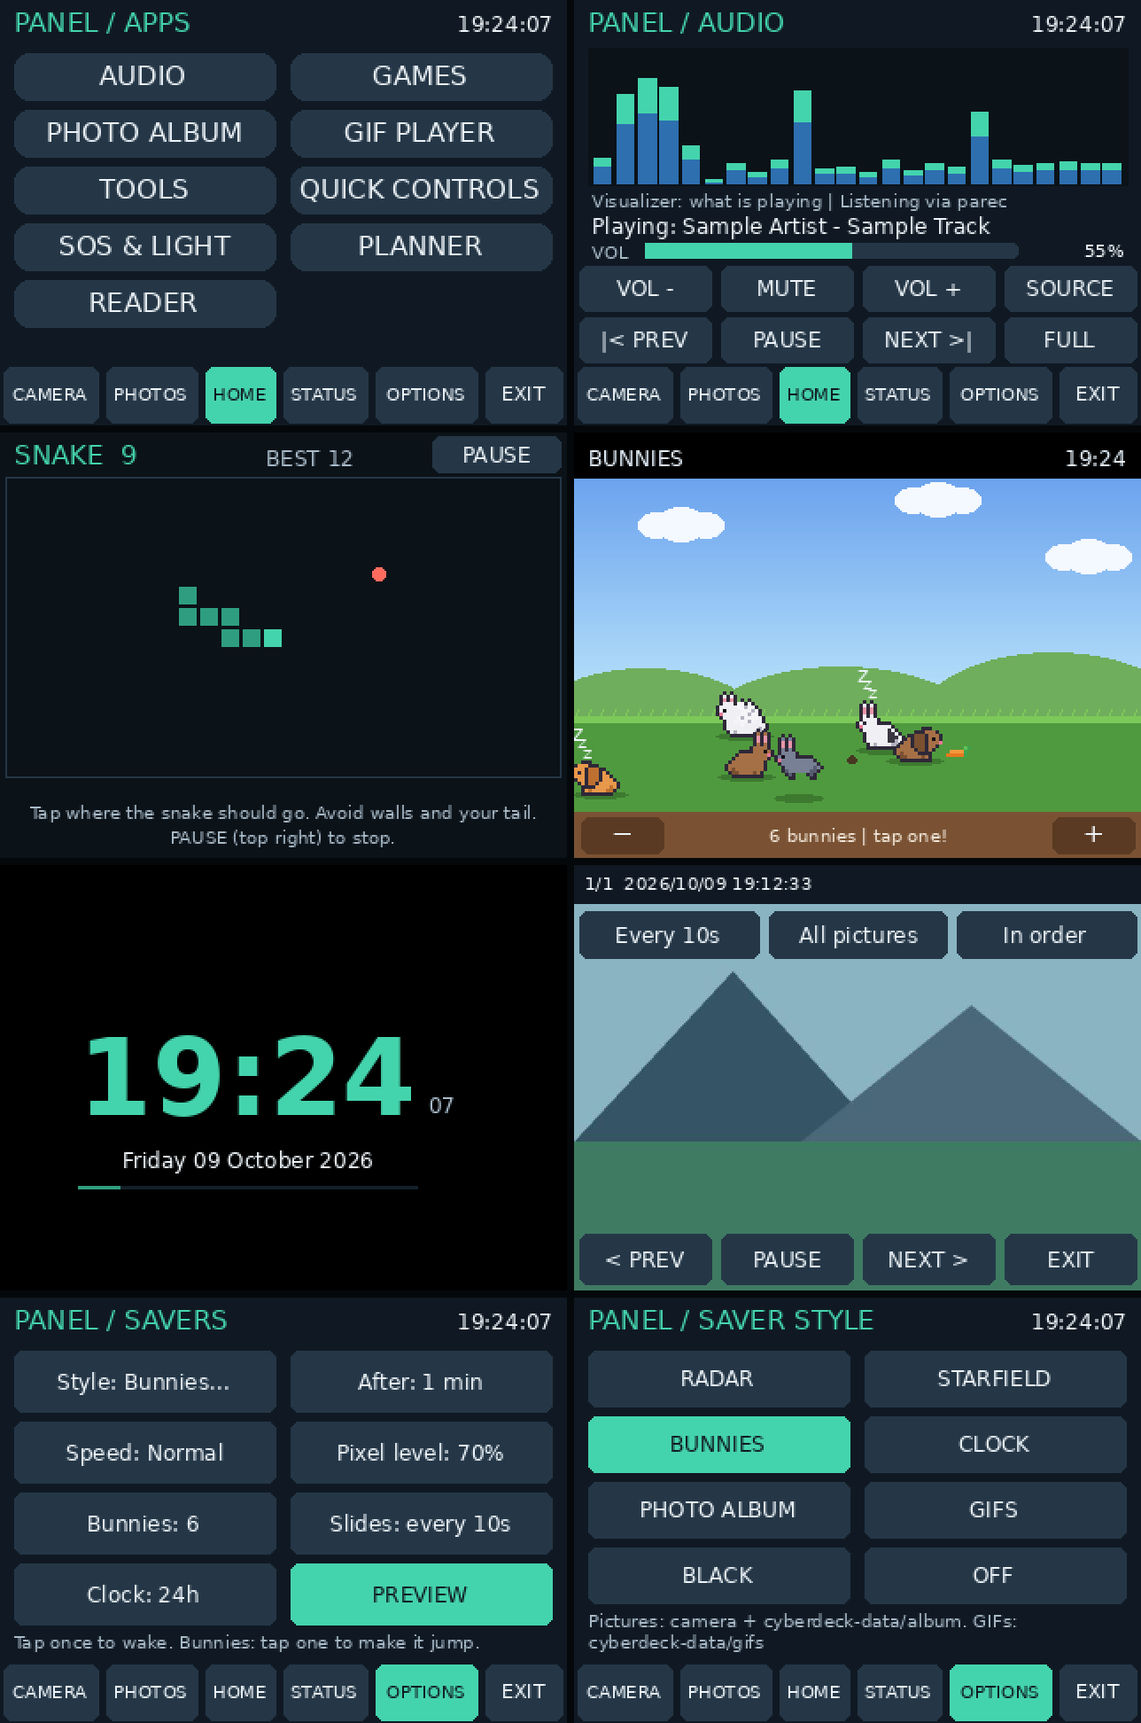
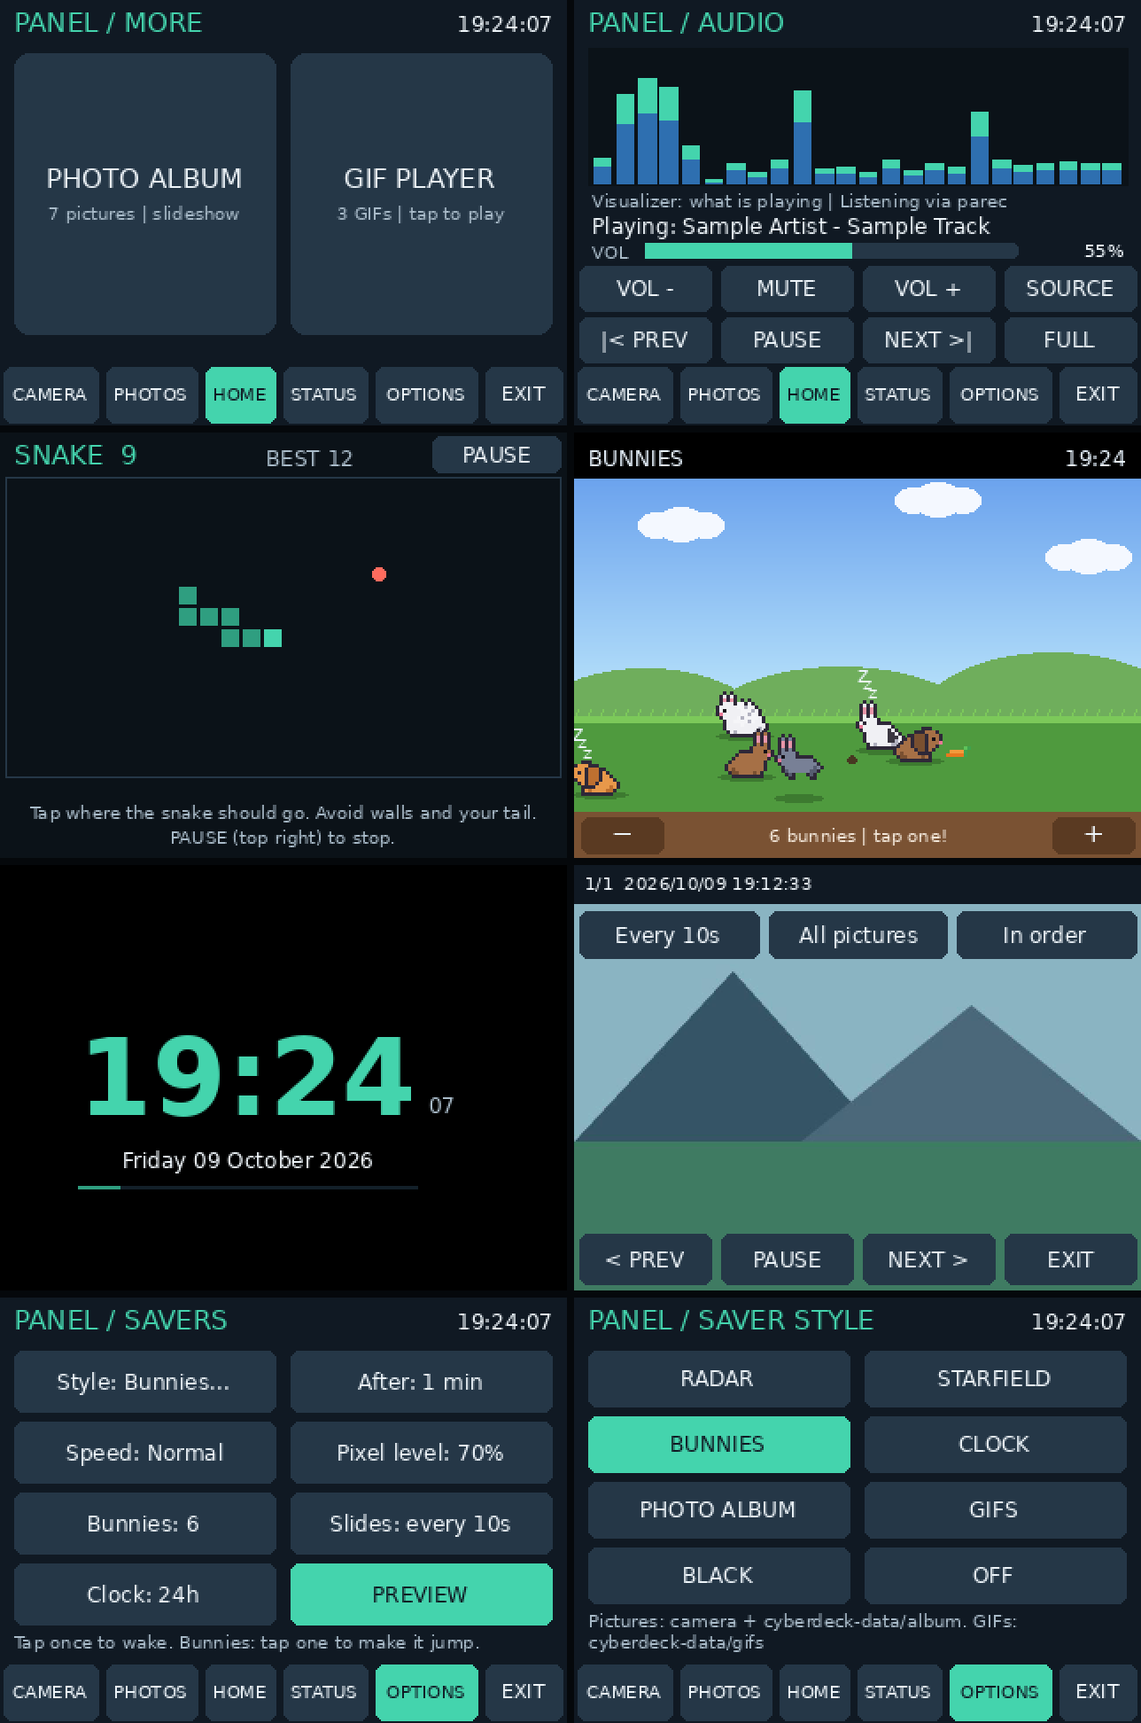
Home: most-used apps first, and each app in one place
Home now leads with Reader, Planner and Ask, then Tools, Quick, Audio, Games,
SOS and More. Camera and Photos already have tabs, so their tiles are gone; the
APPS page becomes MORE and only lists what isn't on Home (photo album and GIF
player). Labels may use the tile margins so PLANNER fits a portrait tile.

Claude-Session: https://claude.ai/code/session_016w3uQjEr2ZwcCKuYp4Kst7

Changed region(s): [[0.0, 0.0, 0.4969, 0.216]]

diff --git a/panel_app.py b/panel_app.py
@@ -3267,8 +3267,8 @@ class SignalApp:
 
 GAME_PAGES = ('snake', 'tetris', 'pong', 'bricks', 'flappy', 'invaders', 'mines', 'solitaire',
               'sudoku')
-APP_TILES = (('AUDIO', 'audio'), ('GAMES', 'games'), ('PHOTO ALBUM', 'album'), ('GIF PLAYER', 'gifs'), ('TOOLS', 'tools'), ('QUICK CONTROLS', 'quick'),
-             ('SOS & LIGHT', 'sos'), ('PLANNER', 'planner'), ('READER', 'reader'))
+# The MORE page: apps that aren't on Home, so no app is listed twice.
+APP_TILES = (('PHOTO ALBUM', 'album'), ('GIF PLAYER', 'gifs'))
 AUDIO_BUTTONS = (('down', 'mute', 'up', 'source'), ('prev', 'play', 'next', 'full'))
 
 
@@ -3284,12 +3284,11 @@ TAB_EDGES = tuple(sum(TAB_WIDTHS[:i]) for i in range(len(TABS)+1))
 TAB_PARENT = {'health': 'status', 'history': 'status', 'savers': 'options', 'saverstyle': 'options',
               'calconfirm': 'options', 'photodelete': 'photos', 'shutdown': 'exit',
               'audio': 'home', 'apps': 'home'}
-# Home page launcher: (label, key, accent colour).
-HOME_TILES = (('CAMERA', 'camera', ACCENT), ('PHOTOS', 'photos', BLUE),
-              ('GAMES', 'games', YELLOW), ('AUDIO', 'audio', PURPLE),
-              ('ALBUM', 'album', ORANGE), ('APPS', 'apps', RED),
-              ('TOOLS', 'tools', GREEN), ('QUICK', 'quick', CYAN),
-              ('ASK', 'ask', '#ff8fb8'))
+# Home page launcher: (label, key, accent colour), most used first. Camera and Photos
+# have their own tabs, so they aren't repeated here.
+HOME_TILES = (('READER', 'reader', ACCENT), ('PLANNER', 'planner', BLUE), ('ASK', 'ask', '#ff8fb8'),
+              ('TOOLS', 'tools', GREEN), ('QUICK', 'quick', CYAN), ('AUDIO', 'audio', PURPLE),
+              ('GAMES', 'games', YELLOW), ('SOS', 'sos', RED), ('MORE', 'apps', ORANGE))
 
 
 def home_rects():
@@ -3558,7 +3557,7 @@ def render_page(page, frame, paused, fps, rows, message, history=(), now=None,
                stroke_width=2, stroke_fill='black')
         return image
     title = {'calconfirm':'TOUCH SETUP', 'savers':'SAVERS', 'saverstyle':'SAVER STYLE',
-             'photodelete':'PHOTOS',
+             'photodelete':'PHOTOS', 'apps':'MORE',
              'shutdown':'POWER', 'poweroff':'POWER'}.get(page, page.upper())
     if alerts and page not in ('stopped', 'poweroff'):
         draw_banner(d, alerts, wall_time.strftime('%H:%M'))
@@ -3791,9 +3790,10 @@ def render_page(page, frame, paused, fps, rows, message, history=(), now=None,
             d.rounded_rectangle((rect[0], rect[1], rect[0]+4, rect[3]), radius=2, fill=colour)
             mid_x, mid_y = (rect[0]+rect[2])//2 + 2, (rect[1]+rect[3])//2
             room = rect[2]-rect[0]-12
+            label_room = room + 6  # Labels may use the margins, so PLANNER fits a portrait tile.
             note = notes.get(key, '')
-            label_font = HOME_LABEL if d.textlength(label, font=HOME_LABEL) <= room else HOME_LABEL_SMALL
-            d.text((mid_x, mid_y - (6 if note else 0)), fit_text(d, label, room, label_font),
+            label_font = HOME_LABEL if d.textlength(label, font=HOME_LABEL) <= label_room else HOME_LABEL_SMALL
+            d.text((mid_x, mid_y - (6 if note else 0)), fit_text(d, label, label_room, label_font),
                    font=label_font, fill=TEXT, anchor='mm')
             if note:
                 d.text((mid_x, mid_y+10), fit_text(d, note, room, TINY), font=TINY,
@@ -4217,13 +4217,12 @@ def main():
                 signal = re.search(r'(-?\d+) dBm', wifi)
                 extra = {'home': {
                     'wifi': f'Wi-Fi {signal[1]} dBm' if signal else 'No Wi-Fi',
-                    'camera': ('Live view' if camera is not None and camera.ready
-                               else 'Connecting...' if camera is not None else 'Off'),
-                    'photos': f'{len(library.items)} saved',
+                    'reader': apps['reader'].note(),
+                    'planner': apps['planner'].note(datetime.now().astimezone()),
                     'games': f'{len(GAME_PAGES)} games',
                     'audio': (f"Vol {audio.state['volume']}%"
                               if audio.state.get('volume') is not None else 'Music, volume'),
-                    'album': 'Slideshow', 'apps': f'{len(APP_TILES)} apps', 'tools': 'Timers & more',
+                    'sos': 'Beacon, torch', 'apps': 'Album, GIFs', 'tools': 'Timers & more',
                     'quick': 'Shortcuts', 'ask': apps['ask'].note()}}
             elif page == 'apps':
                 extra = {'notes': app_notes()}

diff --git a/tests/test_home.py b/tests/test_home.py
@@ -37,10 +37,15 @@ class HomePageTest(unittest.TestCase):
                              ['home:' + key for _, key, _ in app.HOME_TILES])
             self.assertIn('tab:home', [a for _, a in app.HOTSPOTS])
 
-    def test_every_app_is_reachable_from_home(self):
-        # The APPS page is the only way to some apps (SOS, planner, reader), so Home must lead to it.
-        self.assertIn('apps', [key for _, key, _ in app.HOME_TILES])
-        self.assertIn(('READER', 'reader'), app.APP_TILES)
+    def test_every_app_is_reachable_once(self):
+        home = [key for _, key, _ in app.HOME_TILES]
+        more = [key for _, key in app.APP_TILES]
+        tabs = [tab.lower() for tab in app.TABS]
+        self.assertIn('apps', home)  # MORE is the only way to the apps listed there.
+        everything = home + more + tabs
+        for key in ('reader', 'planner', 'ask', 'tools', 'quick', 'audio', 'games', 'sos',
+                    'album', 'gifs', 'camera', 'photos'):
+            self.assertEqual(everything.count(key), 1, key)  # Reachable, and not listed twice.
 
     def test_home_tab_sits_where_apps_was(self):
         app.render('status', None, False, 20, self.rows, '')
@@ -87,9 +92,11 @@ class BootSwitchTest(unittest.TestCase):
 class StartPageTest(unittest.TestCase):
     def test_app_opens_on_home_and_tiles_work(self):
         import test_panel_app as t
-        # Default start page is Home: GAMES tile -> BACK to Home -> CAMERA tile -> Exit.
+        # Default start page is Home: GAMES tile -> BACK to Home -> CAMERA tab -> Exit.
         games_back = centre(app.GamesMenu(lambda: {}).rects()[1])
-        script = [(.5, 263, 98), (1.1, *games_back), (1.7, 56, 98),
+        keys = [key for _, key, _ in app.HOME_TILES]
+        games_tile = centre(app.home_rects()[keys.index('games')])
+        script = [(.5, *games_tile), (1.1, *games_back), (1.7, 29, 222),
                   (2.3, 300, 222), (2.9, 160, 150)]
         t.FakeTouch.script, t.FakeScreen.frames = script, []
         with tempfile.TemporaryDirectory() as folder:

diff --git a/tests/test_panel_app.py b/tests/test_panel_app.py
@@ -653,7 +653,7 @@ class MainLoopTest(unittest.TestCase):
         self.assertEqual(len(list((data/'photos').glob('*.jpg'))), 1)
 
     def test_tools_timelapse_runs_after_leaving_its_page(self):
-        data, _ = self.run_app([(.5, 136, 222), (1.1, 56, 185), # HOME > TOOLS
+        data, _ = self.run_app([(.5, 136, 222), (1.1, 56, 142), # HOME > TOOLS
                                (1.7, 240, 68), (2.3, 80, 142), # TIMELAPSE > START
                                (2.9, 240, 222), # return to CAMERA
                                (3.6, 290, 222), (4.3, 160, 150)])
@@ -691,10 +691,10 @@ class MainLoopTest(unittest.TestCase):
         poweroff.assert_not_called()
 
     def test_apps_snake_and_bunny_saver(self):
-        # Coordinates: HOME tab x=136; GAMES tile (263, 98); menu SNAKE (55, 53);
+        # Coordinates: HOME tab x=136; GAMES tile (56, 185); menu SNAKE (55, 53);
         # dialog START (100, 170) / QUIT (220, 170); menu BACK (55, 212).
-        script = [(.5, 136, 222),    # APPS tab
-                  (1.1, 263, 98),    # GAMES
+        script = [(.5, 136, 222),    # HOME tab
+                  (1.1, 56, 185),    # GAMES
                   (1.7, 55, 53),     # SNAKE in the Games menu (top left)
                   (2.3, 100, 170),   # START
                   (2.9, 280, 12),    # PAUSE (header)

diff --git a/tools/render_previews.py b/tools/render_previews.py
@@ -292,9 +292,10 @@ def games_screens(clock):
 
 def home_screens(clock):
     rows = {'temp': '48.2 C', 'disk_free': '18.4 GiB'}
-    notes = {'wifi': 'Wi-Fi -58 dBm', 'camera': 'Live view', 'photos': '23 saved',
-             'games': '9 games', 'audio': 'Vol 55%', 'album': 'Slideshow', 'apps': '9 apps',
-             'tools': 'Timers & more', 'quick': 'Shortcuts', 'ask': 'Offline answers'}
+    notes = {'wifi': 'Wi-Fi -58 dBm', 'reader': 'Reading: AC and DC',
+             'planner': 'Next: 19:30 Radio net', 'games': '9 games', 'audio': 'Vol 55%',
+             'sos': 'Beacon, torch', 'apps': 'Album, GIFs', 'tools': 'Timers & more',
+             'quick': 'Shortcuts', 'ask': 'Offline answers'}
     landscape = app.render('home', None, False, 20, rows, '', wall_time=clock, extra={'home': notes})
     app.set_rotation(90)
     try:

diff --git a/tests/test_beacon.py b/tests/test_beacon.py
@@ -135,7 +135,7 @@ class SignalAppTest(unittest.TestCase):
                                     (rotation, key, line, box, rect))
 
     def test_listed_in_apps_and_never_covered_by_a_saver(self):
-        self.assertIn(('SOS & LIGHT', 'sos'), app.APP_TILES)
+        self.assertIn(('SOS', 'sos'), [(label, key) for label, key, _ in app.HOME_TILES])
         options = {**app.DEFAULT_OPTIONS, 'saver_style': 'radar', 'saver_delay': 1}
         self.assertFalse(app.saver_due(options, 10**6, 'sos'))
 

diff --git a/tests/test_reader.py b/tests/test_reader.py
@@ -201,7 +201,7 @@ class ReaderTest(unittest.TestCase):
         view.render(0, CLOCK, ())
 
     def test_listed_in_apps_and_not_covered_by_a_saver(self):
-        self.assertIn(('READER', 'reader'), app.APP_TILES)
+        self.assertIn(('READER', 'reader'), [(label, key) for label, key, _ in app.HOME_TILES])
         options = {**app.DEFAULT_OPTIONS, 'saver_style': 'radar', 'saver_delay': 1}
         self.assertFalse(app.saver_due(options, 10**6, 'reader'))
 

diff --git a/docs/APPS-AND-SAVERS.md b/docs/APPS-AND-SAVERS.md
@@ -31,9 +31,9 @@ scp *.gif eli@cyberdeck.local:/home/eli/cyberdeck-data/gifs/
 scp *.jpg eli@cyberdeck.local:/home/eli/cyberdeck-data/album/
 ```
 
-## New tab layout
+## Where the apps are
 
-The tabs are now **CAMERA, PHOTOS, APPS, STATUS, OPTIONS, EXIT**. APPS opens four tiles: **Audio, Snake, Photo album, GIF player**.
+The tabs are **CAMERA, PHOTOS, HOME, STATUS, OPTIONS, EXIT**. Most apps are tiles on Home ([HOME-AND-STARTUP.md](HOME-AND-STARTUP.md)); Home -> **MORE** holds the photo album and the GIF player.
 
 ## 1. Bunny screensaver (interactive)
 
@@ -95,7 +95,7 @@ A large clock with seconds, the day and full date, and a thin seconds-progress l
 
 ## 3. Audio control and visualizer
 
-APPS -> **AUDIO**:
+Home -> **AUDIO**:
 
 - **VOL - / VOL +** change volume in 5% steps, up to 100%. **MUTE** toggles mute. The bar and percentage show the current level.
 - **|< PREV / PLAY / NEXT >|** control whichever media player is running (VLC, Chromium/YouTube, Spotify and others that support MPRIS). The track name is shown when the player provides it. These buttons need `playerctl`.
@@ -114,7 +114,7 @@ How it works and its limits:
 
 ## 4. Snake
 
-APPS -> **SNAKE**, then **START**.
+Home -> **GAMES** -> **SNAKE**, then **START**.
 
 - **Steering:** tap the screen on the side you want the snake to go. It turns toward your tap, so tap above the head to go up, to the right to go right, and so on. Up to two turns can be queued. It can't reverse straight into itself.
 - **Food:** eating grows the snake and speeds it up a little, from 5 to 12 moves per second.
@@ -126,7 +126,7 @@ Taps register when your finger lifts, as everywhere else on this resistive scree
 
 ## 5. Photo album
 
-APPS -> **PHOTO ALBUM** plays a full-screen slideshow with a short crossfade.
+Home -> **MORE** -> **PHOTO ALBUM** plays a full-screen slideshow with a short crossfade.
 
 - Tap once to show the controls. They hide again after 5 seconds.
   - Bottom row: **< PREV**, **PAUSE/RESUME**, **NEXT >**, **EXIT**.
@@ -136,7 +136,7 @@ APPS -> **PHOTO ALBUM** plays a full-screen slideshow with a short crossfade.
 
 ## 6. GIF player and GIF screensaver
 
-APPS -> **GIF PLAYER** plays the GIFs in `~/cyberdeck-data/gifs/` full-screen at their own frame timing, letterboxed to fit.
+Home -> **MORE** -> **GIF PLAYER** plays the GIFs in `~/cyberdeck-data/gifs/` full-screen at their own frame timing, letterboxed to fit.
 
 - Tap to show **< PREV**, **PAUSE**, **NEXT >** and **EXIT**, plus the file name and frame count.
 - As a screensaver (**Style -> GIFS**), each GIF plays for at least 20 seconds and one full loop, then the next one starts.
@@ -146,7 +146,7 @@ APPS -> **GIF PLAYER** plays the GIFs in `~/cyberdeck-data/gifs/` full-screen at
 
 ## 7. SOS and light
 
-APPS -> **SOS & LIGHT** turns the panel into a signal lamp.
+Home -> **SOS** turns the panel into a signal lamp.
 
 - **SOS BEACON** flashes Morse SOS (`... --- ...`) with standard timing on the whole screen, white and black, and repeats until you tap. A dot lasts 0.3 s, so it never flashes more than about twice a second.
 - **TORCH** shows a steady full-brightness white screen.
@@ -155,13 +155,13 @@ APPS -> **SOS & LIGHT** turns the panel into a signal lamp.
 
 ## 8. Planner
 
-APPS -> **PLANNER** is a month calendar with a list of entries for each day.
+Home -> **PLANNER** is a month calendar with a list of entries for each day.
 
 - The month view marks today with a green outline and days with entries with a yellow dot. `<` and `>` change month, **TODAY** opens today, and tapping a day opens it.
 - The day view lists that day's entries, untimed ("all day") ones first, then by time. When there are more than fit (6 in landscape, 8 in portrait), `^` and `v` beside the list scroll it. `<` and `>` move a day; **MONTH** goes back.
 - **ADD** opens the on-screen keyboard. Type the entry (up to 60 characters), tap **NEXT**, then set the time with -1h, -15m, +15m and +1h, or tap **ALL DAY**. **SAVE** stores it. For today the time starts at the next whole hour, for other days at 09:00.
 - Tap an entry, then **DELETE**, to remove it. Any other tap cancels.
-- The APPS tile shows the next timed entry in the coming week.
+- The Home tile shows the next timed entry in the coming week.
 - Entries are saved in `~/cyberdeck-data/planner.json`, only when you add or delete one. A day holds up to 20 entries.
 - "Today" comes from the Pi's clock. Without a network or RTC the clock can be wrong after a reboot, so the planner shows **Clock not synced: check today** (or **Clock sync unknown**) until the clock is synchronised.
 
@@ -170,7 +170,7 @@ APPS -> **PLANNER** is a month calendar with a list of entries for each day.
 
 ## 9. Reader
 
-APPS -> **READER** searches the offline library (Kiwix and your local documents) and shows an article's text a page at a time. It needs cyberdeck-core running ([CORE.md](CORE.md)) and kiwix-serve for Wikipedia articles.
+Home -> **READER** searches the offline library (Kiwix and your local documents) and shows an article's text a page at a time. It needs cyberdeck-core running ([CORE.md](CORE.md)) and kiwix-serve for Wikipedia articles.
 
 - Type a search on the keyboard and tap **SEARCH**. Results list the article titles; local documents are marked `local`. `<` and `>` page through longer lists.
 - Tap a result to open it. **PAGE >**, or a tap on the lower half of the text, turns the page; **< PAGE** goes back. The counter at the top shows the page, and the bar on the right shows where you are in the article.
@@ -203,7 +203,7 @@ All 35 automated tests pass (`python3 -m unittest discover -s tests -v`):
 - **Slideshow:** advancing, crossfade and the source filter.
 - **GIF player:** frame timing, looping, skipping a broken file, and the help screens for an empty album or GIF folder.
 - **Audio:** `wpctl`/`amixer` output parsing, backend detection, volume and media commands, a 1 kHz tone landing in the right spectrum band, reading a PCM stream, and the message when no capture tool exists.
-- **Real application loop:** with a simulated screen, touch and camera: APPS -> Snake -> Start -> Pause -> Quit -> Options -> Screensavers -> Style -> Bunnies -> Preview -> tap + -> tap the sky to wake -> Exit. It checks the style and bunny count were saved and the new folders created.
+- **Real application loop:** with a simulated screen, touch and camera: Home -> Games -> Snake -> Start -> Pause -> Quit -> Options -> Screensavers -> Style -> Bunnies -> Preview -> tap + -> tap the sky to wake -> Exit. It checks the style and bunny count were saved and the new folders created.
 - **Speed:** each screen draws in about 1–4 ms on the development machine, well within the frame budget even if the Pi is several times slower.
 
 **Still needs checking on the Pi:**

diff --git a/docs/HOME-AND-STARTUP.md b/docs/HOME-AND-STARTUP.md
@@ -8,21 +8,21 @@ The app now opens on **Home**, a launcher for everything else.
 
 - **Clock and date** at the top.
 - **Status line:** CPU temperature, Wi-Fi signal and free storage. The health banner still takes over the top bar when something needs attention.
-- **Nine tiles**, each with a short live note:
+- **Nine tiles**, most used first, each with a short live note:
 
   | Tile | Opens | Note shown |
   | --- | --- | --- |
-  | Camera | The camera | Whether it's live or connecting |
-  | Photos | Your photos | Number saved |
-  | Games | The Games menu | Number of games |
-  | Audio | Volume and visualizer | Current volume |
-  | Album | Slideshow | |
-  | Apps | The APPS page: Audio, Games, Album, GIF player, Tools, Quick, SOS & light, Planner and Reader | |
+  | Reader | Offline articles ([APPS-AND-SAVERS.md](APPS-AND-SAVERS.md#9-reader)) | The article you're reading |
+  | Planner | Calendar and day plans | Your next timed entry |
+  | Ask | Ask the offline librarian ([LIBRARIAN.md](LIBRARIAN.md#on-the-panel)) | Answering..., or Backend off |
   | Tools | Tools menu | |
   | Quick | Quick controls | |
-  | Ask | Ask the offline librarian ([LIBRARIAN.md](LIBRARIAN.md#on-the-panel)) | Answering..., or Backend off |
+  | Audio | Volume and visualizer | Current volume |
+  | Games | The Games menu | Number of games |
+  | SOS | SOS beacon and torch | |
+  | More | Photo album slideshow and GIF player | |
 
-- **GIFs** moved inside **Apps** to make room for the Apps tile, so SOS & light, Planner and Reader can be reached from Home.
+- **No duplicates:** Camera and Photos have their own tabs, so they aren't Home tiles, and each app appears in one place only.
 - **Screensaver:** the Saver tile made way for Ask. The saver still starts on its own after the idle delay, and **OPTIONS → Screensavers → PREVIEW** starts it at once.
 - **Tab bar:** the **APPS** tab is now **HOME**, in the same spot, so the other tabs haven't moved. In portrait, HOME is the top-right tab.
 - **Returning:** leaving the Games menu, Tools, Audio and the other apps now brings you back to Home.
@@ -74,7 +74,7 @@ How it behaves:
 
 All 116 automated tests pass, including 7 new ones in `tests/test_home.py`:
 
-- **Home tiles:** all nine fit on screen and lead to the right places in both orientations, and the HOME tab sits where APPS was.
+- **Home tiles:** all nine fit on screen and lead to the right places in both orientations, every app is reachable exactly once, and the HOME tab sits where APPS was.
 - **Boot status:** the switch reads systemd's enabled, disabled and unavailable states correctly.
 - **Turning boot start on:** writes the service with your data folder and enables it, without starting a second copy.
 - **Turning it off:** only disables the service.

diff --git a/README.md b/README.md
@@ -4,11 +4,11 @@ Touch app for a Raspberry Pi 4 with a 2.8" ILI9341 SPI TFT (320x240, `fbtft`), a
 
 | Page | What it does |
 | --- | --- |
-| HOME | Start page: clock, status and tiles for Camera, Photos, Games, Audio, Album, Apps, Tools, Quick controls and Ask |
+| HOME | Start page: clock, status and tiles for Reader, Planner, Ask, Tools, Quick controls, Audio, Games (Snake, Tetris, Pong, Brick Breaker, Flappy, Space Invaders, Minesweeper, Solitaire, Sudoku), SOS beacon and torch, and More |
 | ASK (via Home) | Type a question on an on-screen keyboard and read the offline librarian's answer with its sources (needs cyberdeck-core) |
 | CAMERA | Live preview, full-resolution SNAP, 3 s/10 s self-timer, pause, FPS, and a last-photo thumbnail |
 | PHOTOS | Browse, zoom/pan full-size pictures and delete saved photos |
-| APPS (via Home) | Audio, Games (Snake, Tetris, Pong, Brick Breaker, Flappy, Space Invaders, Minesweeper, Solitaire, Sudoku), slideshow, GIFs, SOS beacon and torch, day planner, offline article reader, Quick controls and Tools |
+| MORE (via Home) | Photo album slideshow and GIF player |
 | TOOLS | Timelapse, timers, network history, selected-photo sharing, presets, recovery, updates, GNSS placeholder, and Sun & moon (sunrise, sunset and moon phase, computed offline) |
 | STATUS | CPU/RAM graphs, temperature, storage, uptime; HISTORY shows up to 7 days of temperature, CPU and undervoltage (needs cyberdeck-core); DETAILS shows power, clock sync, Wi-Fi and network |
 | OPTIONS | Pixel level, screensavers, colour test, touch calibration, graph length, photo size, alert banner |

diff --git a/docs/TOOLS.md b/docs/TOOLS.md
@@ -1,7 +1,7 @@
 # Camera and deck tools
 
-Open **APPS > TOOLS**. The menu has two pages; use **MORE** for Recovery, Updates
-GNSS and Sun & moon. **APPS > QUICK CONTROLS** opens the shortcuts directly. Layouts support
+Open **Home > TOOLS**. The menu has two pages; use **MORE** for Recovery, Updates
+GNSS and Sun & moon. **Home > QUICK** opens the shortcuts directly. Layouts support
 all four screen rotations. The original camera, calibration, savers, audio and
 games remain available.
 
